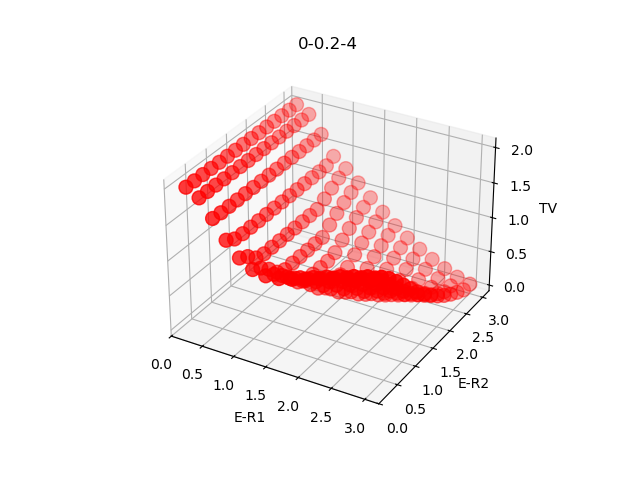
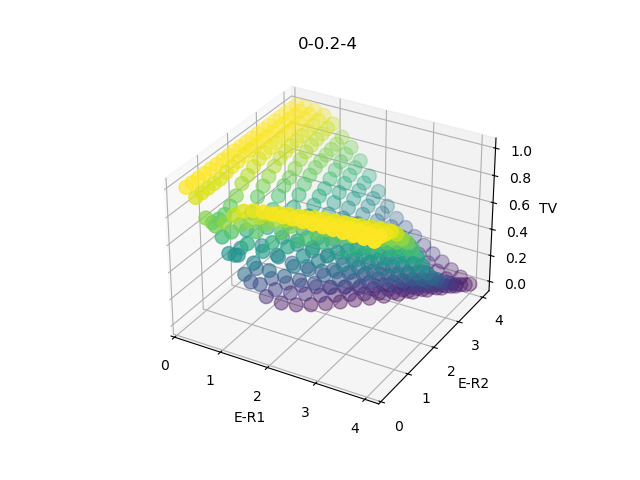
修改bug
修改rational转float的和tv-distance需要除以2

diff --git a/main.py b/main.py
@@ -176,28 +176,33 @@ def MLN_TV(mln1: str,mln2: str, w1:float, w2:float) -> Rational:
 if __name__ == '__main__':
     mln1 = "models\\E-R1.mln"
     mln2 = "models\\E-R2.mln"
-    w1 = [0.2 + i*0.2 for i in range(15)]
-    w2 = [0.2 + i*0.2 for i in range(15)]
+    w1 = [0.2 + i*0.2 for i in range(20)]
+    w2 = [0.2 + i*0.2 for i in range(20)]
 
     combinations = list(itertools.product(w1, w2))
     res = []
     for w in combinations:
-        print(w[0],w[1],"..................................................")
-        res.append(MLN_TV(mln1, mln2, w[0], w[1]))
-    print(res)
+        res.append(round_rational(MLN_TV(mln1, mln2, w[0], w[1])))
+    for a in res:
+        print(res)
+
     x = [comb[0] for comb in combinations]
     y = [comb[1] for comb in combinations]
 
     x = np.array(x, dtype=float)
     y = np.array(y, dtype=float)
-    res = np.array(res, dtype=float)
-
+    res = 0.5*np.array(res, dtype=float)
+    i = 0
+    for w in combinations:
+        print('w[0]: ', w[0], 'w[1]: ', w[1], 'res', res[i])
+        i = i+1
+    print('i: ',i)
     # 创建三维图
     fig = plt.figure()
     ax = fig.add_subplot(111, projection='3d')
 
     # 绘制散点图
-    ax.scatter(x, y, res, s=100, c='red', cmap='viridis')
+    ax.scatter(x, y, res, s=100, c=res, cmap='viridis')
 
     # 设置标签
     ax.set_xlabel('E-R1')
